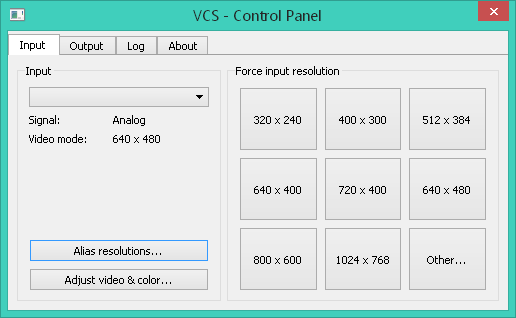
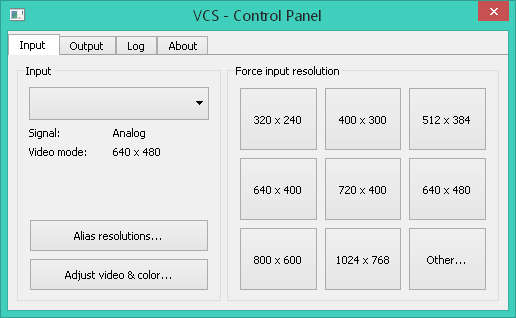
Update README.md
Update a screenshot of the control panel, to reflect the larger buttons
it recently got.

diff --git a/src/display/qt/d_window.cpp b/src/display/qt/d_window.cpp
@@ -45,7 +45,7 @@ MainWindow::MainWindow(QWidget *parent) :
     ui->setupUi(this);
 
     OVERLAY.setDocumentMargin(0);
-    OVERLAY.setTextWidth(width());    // Fix HTML align not working.
+    OVERLAY.setTextWidth(width());    // Fixes HTML align not working.
 
     controlPanel = new ControlPanel(this);
     overlayDlg = new OverlayDialog(this);
